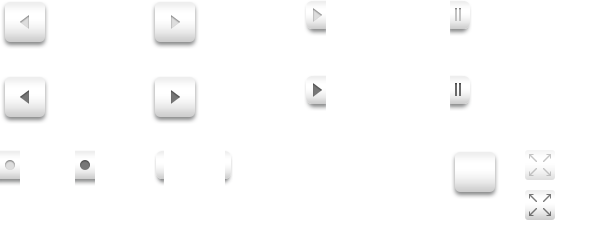
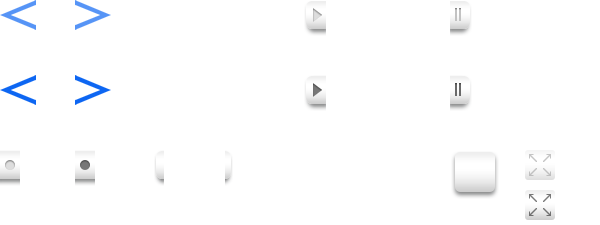
add orange gradient lines

diff --git a/wp-content/themes/paranormal-activity/lib/less/homepage.less b/wp-content/themes/paranormal-activity/lib/less/homepage.less
@@ -19,6 +19,31 @@
               margin-left: 60px;
             }
           }
+          .orange-line-fixed{
+            height:2px;
+            width:100%;
+          }
+          
+          .orange-gradient{
+            /* IE9 SVG, needs conditional override of 'filter' to 'none' */
[1 lines of base64/hex data omitted]
+            background: -moz-linear-gradient(left,  rgba(250,137,36,0) 0%, rgba(250,137,36,1) 50%, rgba(250,137,36,0) 100%); /* FF3.6+ */
+            background: -webkit-gradient(linear, left top, right top, color-stop(0%,rgba(250,137,36,0)), color-stop(50%,rgba(250,137,36,1)), color-stop(100%,rgba(250,137,36,0))); /* Chrome,Safari4+ */
+            background: -webkit-linear-gradient(left,  rgba(250,137,36,0) 0%,rgba(250,137,36,1) 50%,rgba(250,137,36,0) 100%); /* Chrome10+,Safari5.1+ */
+            background: -o-linear-gradient(left,  rgba(250,137,36,0) 0%,rgba(250,137,36,1) 50%,rgba(250,137,36,0) 100%); /* Opera 11.10+ */
+            background: -ms-linear-gradient(left,  rgba(250,137,36,0) 0%,rgba(250,137,36,1) 50%,rgba(250,137,36,0) 100%); /* IE10+ */
+            background: linear-gradient(to right,  rgba(250,137,36,0) 0%,rgba(250,137,36,1) 50%,rgba(250,137,36,0) 100%); /* W3C */
+            filter: progid:DXImageTransform.Microsoft.gradient( startColorstr='#00fa8924', endColorstr='#00fa8924',GradientType=1 ); /* IE6-8 */
+          }
+          
+          .gradient-holder{
+              position: relative;
+              top: -124px;
+              .even{}
+              .odd{
+              position: relative;
+              top: 50px;}
+          }
         }
       }
     }

diff --git a/wp-content/themes/paranormal-activity/lib/css/homepage.css b/wp-content/themes/paranormal-activity/lib/css/homepage.css
@@ -89,3 +89,33 @@
 .home .site-inner main.content article .entry-content .gradient img.pull-right {
   margin-left: 60px;
 }
+.home .site-inner main.content article .entry-content .orange-line-fixed {
+  height: 2px;
+  width: 100%;
+}
+.home .site-inner main.content article .entry-content .orange-gradient {
+  /* IE9 SVG, needs conditional override of 'filter' to 'none' */
[1 lines of base64/hex data omitted]
+  background: -moz-linear-gradient(left, rgba(250, 137, 36, 0) 0%, #fa8924 50%, rgba(250, 137, 36, 0) 100%);
+  /* FF3.6+ */
+  background: -webkit-gradient(linear, left top, right top, color-stop(0%, rgba(250, 137, 36, 0)), color-stop(50%, #fa8924), color-stop(100%, rgba(250, 137, 36, 0)));
+  /* Chrome,Safari4+ */
+  background: -webkit-linear-gradient(left, rgba(250, 137, 36, 0) 0%, #fa8924 50%, rgba(250, 137, 36, 0) 100%);
+  /* Chrome10+,Safari5.1+ */
+  background: -o-linear-gradient(left, rgba(250, 137, 36, 0) 0%, #fa8924 50%, rgba(250, 137, 36, 0) 100%);
+  /* Opera 11.10+ */
+  background: -ms-linear-gradient(left, rgba(250, 137, 36, 0) 0%, #fa8924 50%, rgba(250, 137, 36, 0) 100%);
+  /* IE10+ */
+  background: linear-gradient(to right, rgba(250, 137, 36, 0) 0%, #fa8924 50%, rgba(250, 137, 36, 0) 100%);
+  /* W3C */
+  filter: progid:DXImageTransform.Microsoft.gradient(startColorstr='#00fa8924', endColorstr='#00fa8924', GradientType=1);
+  /* IE6-8 */
+}
+.home .site-inner main.content article .entry-content .gradient-holder {
+  position: relative;
+  top: -124px;
+}
+.home .site-inner main.content article .entry-content .gradient-holder .odd {
+  position: relative;
+  top: 50px;
+}

diff --git a/wp-content/plugins/LayerSlider/static/skins/paranormal/skin.css b/wp-content/plugins/LayerSlider/static/skins/paranormal/skin.css
@@ -37,11 +37,11 @@
 }
 
 .ls-paranormal .ls-nav-next {
-	background-position: -150px 0px;
+	background-position: -75px 0px;
 }
 
 .ls-paranormal .ls-nav-next:hover {
-	background-position: -150px -75px;
+	background-position: -75px -75px;
 }
 
 .ls-paranormal .ls-nav-start {
@@ -83,8 +83,8 @@
 
 .ls-paranormal .ls-nav-prev,
 .ls-paranormal .ls-nav-next {
-	width: 50px;
-	height: 50px;
+	width: 36px;
+	height: 30px;
 	z-index: 10000;
 	top: 50%;
 	margin-top: -22px;	
@@ -92,11 +92,11 @@
 }
 
 .ls-paranormal .ls-nav-prev {
-	left: 10px;	
+	left: -82px;	
 }
 
 .ls-paranormal .ls-nav-next {
-	right: 10px;	
+	right: -82px;	
 }
 
 

diff --git a/wp-content/themes/paranormal-activity/lib/css/style.css b/wp-content/themes/paranormal-activity/lib/css/style.css
@@ -9797,7 +9797,7 @@ Site Header
 .site-header {
   background-color: #fff;
   position: fixed;
-  z-index: 1000;
+  z-index: 90000;
   height: 52px;
   height: 5.2rem;
   width: 100%;

diff --git a/wp-content/themes/paranormal-activity/lib/less/header.less b/wp-content/themes/paranormal-activity/lib/less/header.less
@@ -5,7 +5,7 @@ Site Header
 .site-header {
   background-color: #fff;
   position: fixed;
-  z-index: 1000;
+  z-index: 90000;
   height: 52px;
   height: 5.2rem;
   width: 100%;

diff --git a/wp-content/themes/paranormal-activity/lib/inc/shortcodes.php b/wp-content/themes/paranormal-activity/lib/inc/shortcodes.php
@@ -176,3 +176,13 @@ add_shortcode('gradient','msdlab_gradient_block');
  }
  
  add_shortcode('widgety','msdlab_setup_fake_widgets');
+ 
+ function msdlab_orange_gradient_line(){
+     $ret = '<div class="wrap gradient-holder hidden-sm hidden-xs">';
+     $ret .= '<div class="orange-line-fixed orange-gradient"></div>';
+     $ret .= '<div class="orange-line-fixed orange-gradient"></div>';
+     $ret .= '</div>';
+     return $ret;
+ }
+add_shortcode('orange_gradient_line','msdlab_orange_gradient_line');
+add_shortcode('orange-gradient-line','msdlab_orange_gradient_line');
